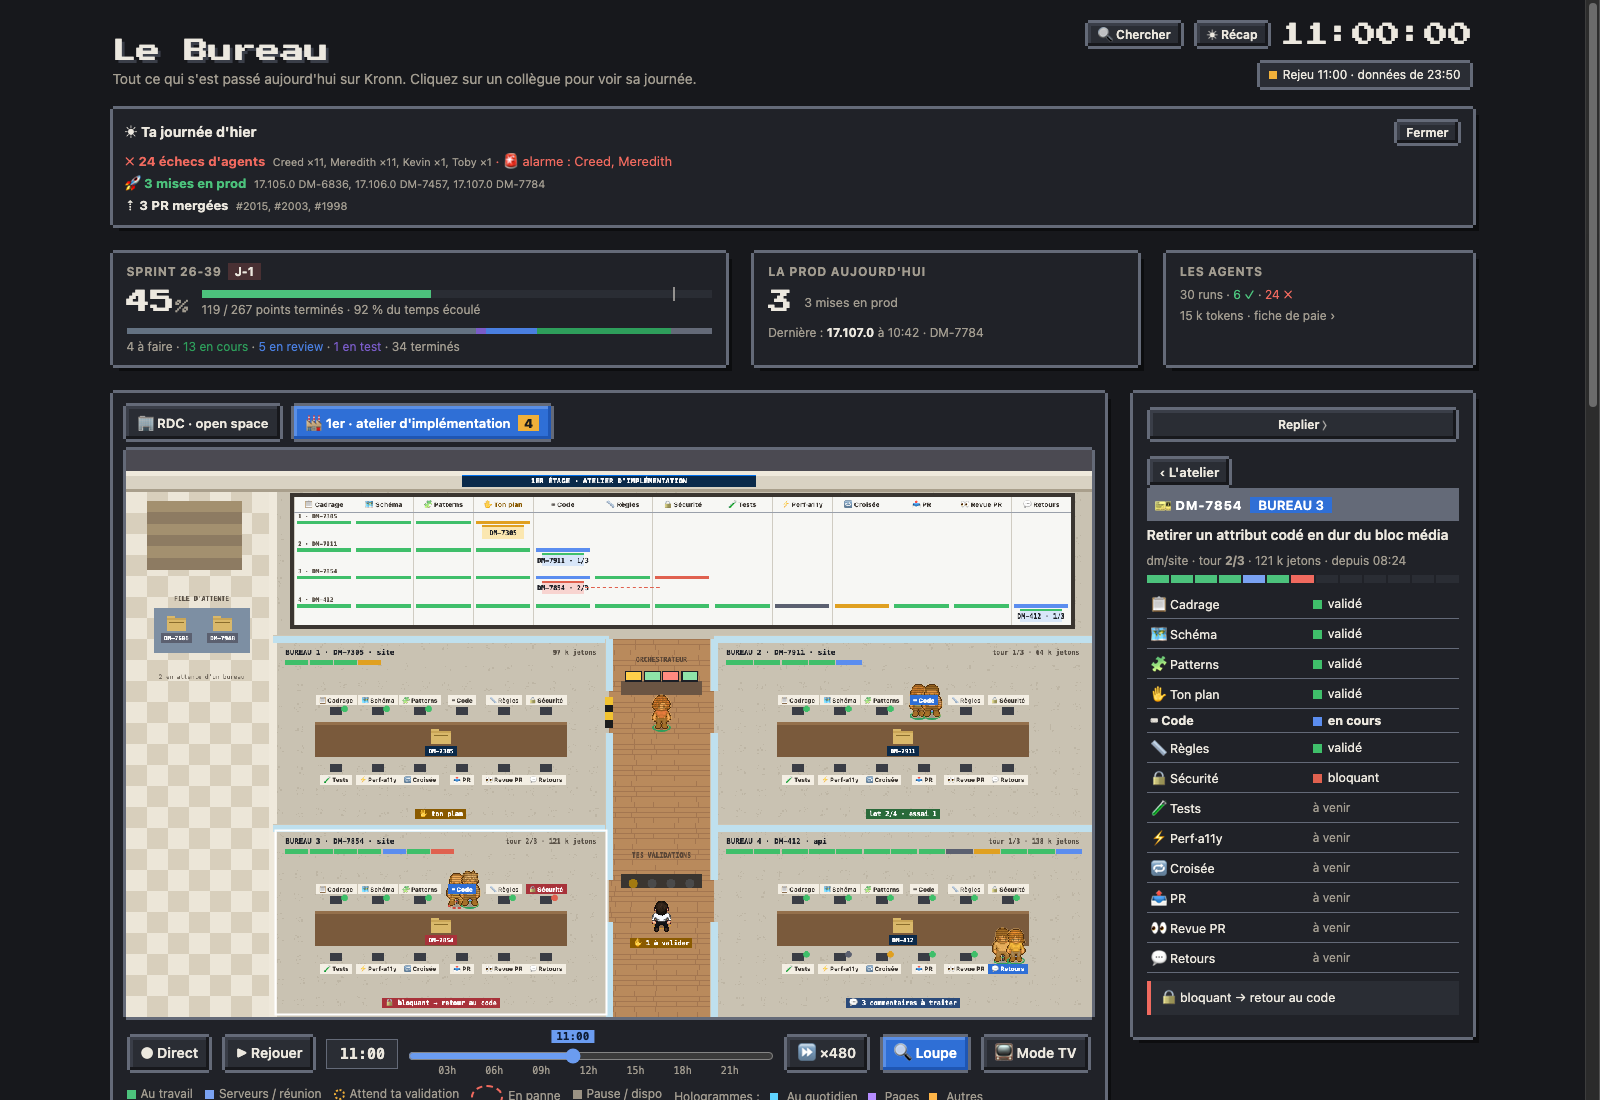
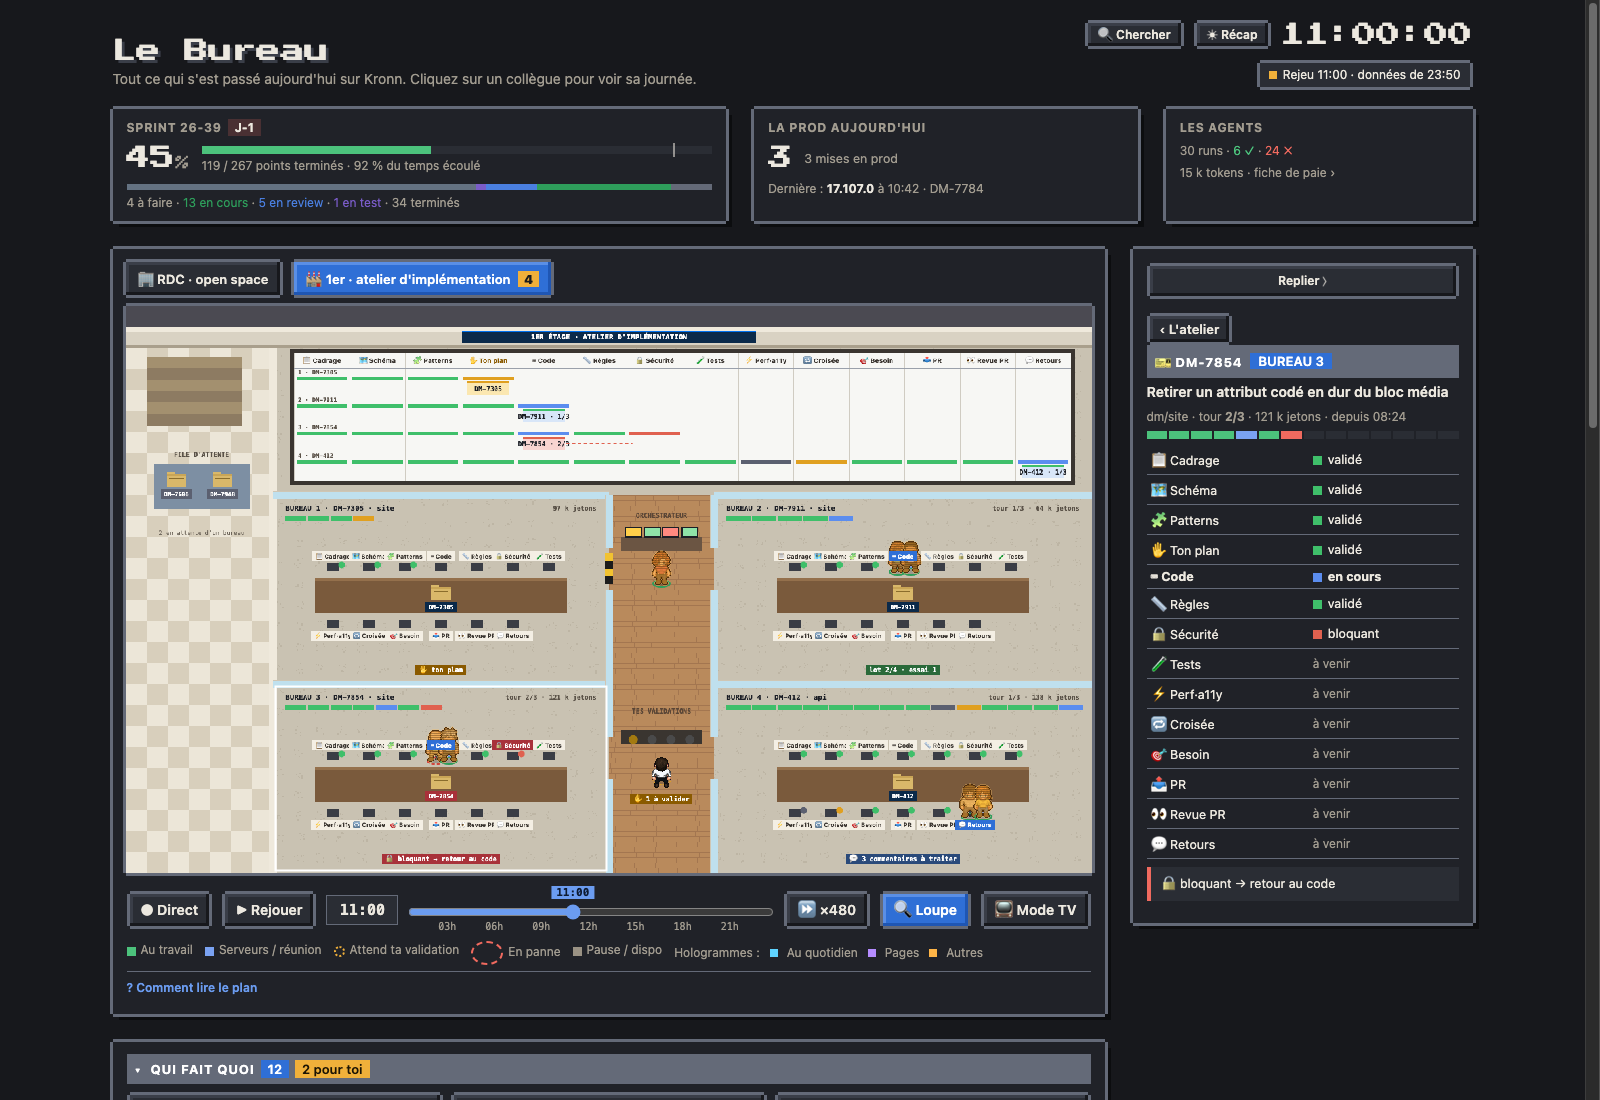
feat(atelier): le poste 🎯 Besoin au mur et sur les bureaux ; doc de la gate du cadrage et de la PR

diff --git a/page/src/68-atelier.js b/page/src/68-atelier.js
@@ -7,7 +7,7 @@
 const AT_POSTES=[
   {k:'cadrage',i:'📋',n:'Cadrage'},{k:'schema',i:'🗺',n:'Schéma'},{k:'patterns',i:'🧩',n:'Patterns'},{k:'gate',i:'✋',n:'Ton plan',gate:true},
   {k:'code',i:'⌨',n:'Code'},{k:'regles',i:'📏',n:'Règles'},{k:'securite',i:'🔒',n:'Sécurité'},{k:'tests',i:'🧪',n:'Tests'},
-  {k:'perf',i:'⚡',n:'Perf·a11y'},{k:'revue',i:'🔁',n:'Croisée'},{k:'pr',i:'📤',n:'PR'},{k:'revue_pr',i:'👀',n:'Revue PR'},{k:'retours',i:'💬',n:'Retours'}];
+  {k:'perf',i:'⚡',n:'Perf·a11y'},{k:'revue',i:'🔁',n:'Croisée'},{k:'besoin',i:'🎯',n:'Besoin'},{k:'pr',i:'📤',n:'PR'},{k:'revue_pr',i:'👀',n:'Revue PR'},{k:'retours',i:'💬',n:'Retours'}];
 const AT_ST={ok:['#3fbf6a','validé'],run:['#5b8def','en cours'],bloq:['#e0614f','bloquant'],avis:['#e0a020','avis'],wait:['#e0a020','t\'attend'],
   skip:['#5b6070','sauté'],err:['#e0614f','en panne']};
 const AT_TS=32, AT_W=46*AT_TS, AT_H=27*AT_TS, AT_ROOMS=[[7,9,23,18],[28,9,46,18],[7,18,23,27],[28,18,46,27]];
@@ -33,7 +33,7 @@ function atelierDemo(){
     {run:'demo-a3',ticket:'DM-7854',title:'Retirer un attribut codé en dur du bloc média',repo:'dm/site',poste:'code',back:true,
      states:{...ok(6),securite:'bloq',code:'run'},tour:'2/3',tok:121e3,since:at(8.4),note:'🔒 bloquant → retour au code'},
     {run:'demo-a4',ticket:'DM-412',title:'Cache des listes de rubriques',repo:'dm/api',poste:'retours',
-     states:{...ok(8),perf:'skip',revue:'avis',pr:'ok',revue_pr:'ok',retours:'run'},tour:'1/3',tok:138e3,since:at(7.9),note:'💬 3 commentaires à traiter'}],
+     states:{...ok(8),perf:'skip',revue:'avis',besoin:'ok',pr:'ok',revue_pr:'ok',retours:'run'},tour:'1/3',tok:138e3,since:at(7.9),note:'💬 3 commentaires à traiter'}],
     queue:[{run:'demo-q1',ticket:'DM-7606',since:at(10.5)},{run:'demo-q2',ticket:'DM-7948',since:at(10.8)}],
     pannes:[{run:'demo-p1',ticket:'DM-7702',title:'Bandeau d\'alerte sur les pages direct',repo:'dm/api',poste:'securite',since:at(8.1)}]};
 }

diff --git a/docs/architecture/chaine-implementation.md b/docs/architecture/chaine-implementation.md
@@ -13,7 +13,7 @@ impl (lanceur, 0 token)          composants Jira -> dépôts -> projets Kronn ; 
    ticket · prepare · [cadrage] · questions · ✋gate_questions · [schema] · [patterns] · dossier · orchestrateur_plan · ✋gate_plan
    · mode · [code] · [controles] · orchestrateur · aiguillage · ✋gate_escalade
    · [livraison = 📤 PR · [revue_pr] · [retours]] · ✋gate_pr · [publication] (Stop) · commente_plan (Plan seulement, puis Stop)
-   controles = quoi · [regles] · [securite] · [tests] · [perf] · [revue] · bilan
+   controles = quoi · [regles] · [securite] · [tests] · [perf] · [revue] · [besoin] · bilan
 ```
 
 `[x]` = sous-workflow `impl_x`. Chaque poste a de la place pour grandir : 20 étapes par workflow, comptées séparément pour chaque sous-workflow [src: url: https://github.com/DocRoms/Kronn/blob/main/backend/src/api/workflows.rs].
@@ -28,6 +28,10 @@ impl (lanceur, 0 token)          composants Jira -> dépôts -> projets Kronn ; 
 - Un Goto compte ses passages par arête (source, cible) sur tout le run, et une étape en code non nul dont le Goto a épuisé `max_iterations` **échoue** au lieu de continuer : tous les tours (propositions, essais par lot, tests, tours de contrôle) sont comptés par le script, qui rend 0 au dernier ; `max_iterations` n'est qu'un filet.
 - Une référence `{{steps.x.data_json}}` à une sortie d'agent sans enveloppe (`on_invalid: Continue`) est inconnue et Kronn refuse de rendre l'étape : toute référence à une sortie d'étape a un repli `?? …` (posé par le générateur).
 - Le shadow de Kronn ne rejoue pas un workflow à variables : l'instantané chiffré des variables est rangé sous l'id du run normal, le run shadow s'arrête sur « snapshot unavailable ». D'où le mode **essai** : toute la chaîne sans push, sans PR, sans Jira (le script saute ces étapes, `reviewers` sort en 5 pour sauter le commentaire Jira, l'`entree` du Code sort en 5 pour sauter l'étape `affecter`).
+
+## ✋ Ce que j'ai compris : la gate du cadrage
+
+Après le cadrage, la gate `gate_questions` s'ouvre à chaque ticket (`questions` sort en 0, la gate suit). Elle montre la compréhension, l'inclus et l'exclus, les critères d'acceptation, les questions avec leur hypothèse, un dépôt qui semble hors périmètre et, si le critique du cadrage n'est pas d'accord après 3 propositions, ses remarques restées. « Changements » renvoie au cadrage avec ton message (`retours.md` garde tout l'échange), autant de tours que tu veux, avant le schéma et le plan. `impl.gate_cadrage: false` : la gate ne s'ouvre que s'il y a à trancher (question bloquante, désaccord du critique, hors périmètre), sinon `questions` sort en 3 (saut au schéma). Essai d'EW-6550 : le cadrage avait compris « le front envoie des données, le mobile affiche » pour une page rendue en HTML par le front, son critique l'avait vu, et la chaîne a filé jusqu'au code.
 
 ## Un ticket, plusieurs dépôts : un bureau et une PR par dépôt
 
@@ -55,6 +59,12 @@ Dans l'atelier, un run en échec des dernières 24 h reste dans « 🧯 En panne
 ## Rejouer un ticket déjà livré (essai comparé)
 
 La variable `base` de la chaîne (commit ou branche) fait partir la branche d'un état passé, en mode essai, pour comparer le travail de la chaîne à la PR humaine déjà livrée. Le futur ne doit pas fuiter : chaque poste et l'orchestrateur reçoivent la consigne de juger par rapport à ce commit (la base distante contient la livraison), le diff part de ce commit (`depart` dans `etat.json`), le ticket ne montre ni son statut ni les commentaires postérieurs. Reste visible : l'état actuel de GitHub (environnements, rulesets) quand un agent l'interroge.
+
+## Conformité au besoin et description de la PR
+
+Le poste 🎯 Besoin (`impl_besoin`, dans les contrôles, bloquant par défaut) confronte le diff aux exigences du ticket (critères d'acceptation, « Qu'est-ce qu'on va faire », « Comment on teste », retours de l'humain) : `exigences` = une ligne par exigence, `fait`, `partiel`, `non`, `autrement` ou `hors_scope` ; une exigence non faite qui revient au dépôt est bloquante. Les autres contrôles jugent la qualité du code, aucun ne vérifiait le résultat demandé.
+
+La description de la PR suit le modèle du dépôt avec un emoji par section (🎯 De quoi on parle, 🔧 Comment j'ai réglé, 🧪 Comment on teste, ✅ Validation, 🚦 Avant / après le merge), courte, sans texte d'aide laissé. Deux blocs y sont écrits par le script, pas par l'agent : « 📋 Ce que le ticket demandait, et où ça atterrit » (le tableau du poste Besoin, à l'emplacement `<!-- bureau-exigences -->`) et « ⚠ Points ouverts » (bloquants restés et avis des contrôles, sans doublon, `<!-- bureau-points -->`). Essai d'EW-7945 : l'orchestrateur disait « avis à reporter dans la PR », le rédacteur les a omis et annonçait « qat retiré ».
 
 ## Périmètre : implémentation, PR et retours
 
@@ -85,7 +95,7 @@ La chaîne s'arrête à la PR et à sa vie de revue : `impl_livraison` (« 📤 
 
 ## Réglage `impl`
 
-`repos.<owner/dépôt>` : `base` (sinon `main` ; absente du dépôt distant : sa branche par défaut, front_tools est sur `master`), `checks.regles` et `checks.tests` (commandes `sh`, chaîne ou `{cmd, subdir}`, emplacements `{worktree}`, `{main}`, `{php}`, `{ts}`, `{tests_php}`, `{tests_ts}`, `{files}` ; une commande dont les fichiers visés manquent est sautée), `ci_label`, `env_label`, `env_url`, `reviewers`. `components.<composant>` quand un composant ne porte pas le nom de son dépôt. `postes.<rôle>` (`cadrage`, `cadrage.critique`, `code`, `revue`…) : `agent`, `tier`, `model`, `skills` en plus, `actif`, `bloquant`. `skills` et `guidelines` de l'équipe pour le code et les contrôles. `max_tours`, `max_lots`. `clones` (dossier des copies locales, `~/Sites` par défaut) et `auto_projet` (cloner un dépôt absent). `references` : dépôts standard de l'équipe (ex. front_euronews) que chaque bureau peut lire, comme ses dépôts sœurs, par leur copie locale (projet Kronn), jamais modifiés.
+`repos.<owner/dépôt>` : `base` (sinon `main` ; absente du dépôt distant : sa branche par défaut, ex. `master`), `checks.regles` et `checks.tests` (commandes `sh`, chaîne ou `{cmd, subdir}`, emplacements `{worktree}`, `{main}`, `{php}`, `{ts}`, `{tests_php}`, `{tests_ts}`, `{files}` ; une commande dont les fichiers visés manquent est sautée), `ci_label`, `env_label`, `env_url`, `reviewers`. `components.<composant>` quand un composant ne porte pas le nom de son dépôt. `postes.<rôle>` (`cadrage`, `cadrage.critique`, `code`, `revue`…) : `agent`, `tier`, `model`, `skills` en plus, `actif`, `bloquant`. `skills` et `guidelines` de l'équipe pour le code et les contrôles. `max_tours`, `max_lots`. `clones` (dossier des copies locales, `~/Sites` par défaut) et `auto_projet` (cloner un dépôt absent). `references` : dépôts standard de l'équipe (celui qui fixe les conventions) que chaque bureau peut lire, comme ses dépôts sœurs, par leur copie locale (projet Kronn), jamais modifiés.
 
 Vérifier en conteneur jetable depuis la copie de travail : le projet Compose d'une copie de travail n'a pas de conteneur (nom de dossier), un `docker compose exec` y échouerait sans bruit ; `docker run --rm -v {worktree}/…:/app -v {main}/…/vendor:/app/vendor:ro …` marche (dépendances partagées tant que le verrou n'a pas changé).
 

diff --git a/CHANGELOG.md b/CHANGELOG.md
@@ -9,7 +9,7 @@ Format : [Keep a Changelog](https://keepachangelog.com/fr/1.1.0/). Versions : `0
 ### Ajouté
 
 - 1er étage, **l'atelier d'implémentation** (#125) : onglets d'étage au-dessus du plan quand la chaîne est installée ; un bureau par ticket sur la chaîne (quatre en parallèle), un tableau mural postes × tickets (validé, en cours, bloquant, avis, sauté, retour au code), l'orchestrateur et ton pupitre de validations dans le couloir, la file d'attente sur le palier ; dans le panneau, les bureaux, les runs en panne à reprendre et la fiche de chacun (verdict de chaque poste, lien du run, carte de décision de sa gate). Dataset `atelier` publié par le cron `live` (`workflows/atelier_snapshot.py`, 0 token). Guide : [L'atelier d'implémentation](guide/fonctionnalites/23-atelier.md). Après la mise à jour : `python3 tools/install.py` (crée le dataset), puis `publish.py all`.
-- Implémenter un ticket en **chaîne de postes** (#76, #125) : modèle du Bureau multi-projets, un bureau et une PR par dépôt : chaque composant Jira du ticket donne son dépôt et son projet Kronn (lanceur `models.impl`, 0 token), chaque bureau a sa copie du projet et son périmètre, les PR sœurs se citent entre elles, jusqu'à 4 en parallèle. Dix postes, chacun un sous-workflow avec son agent, son modèle et ses skills (réglage `impl.postes`) : 📋 cadrage, 🗺 schéma d'impact, 🧩 patterns (une proposition, un critique, 3 tours au plus), un orchestrateur qui valide et compose le plan en lots et choisit les contrôles, ✋ ta gate sur le plan (« Plan seulement » s'arrête là, plan en commentaire du ticket), ⌨ code lot par lot (vérifs et relecture par lot, 3 essais), 📏 règles, 🔒 sécurité, 🧪 tests, ⚡ perf · a11y (si du front change), 👀 revue croisée, puis l'orchestrateur : livrer, renvoyer au code (3 tours) ou te demander ; 📤 PR brouillon au modèle du dépôt, 👀 revue de la PR par le modèle de revue du Bureau, 💬 retours traités (correction et réponse dans chaque fil), ta relecture, puis relecteurs et lien dans le ticket. Ni CI, ni env de branche, ni déploiement : le RDC s'en charge. Vérifications du dépôt en conteneur jetable depuis la copie de travail (`impl.repos.<dépôt>.checks`). Trois modes : Plan seulement, complet, essai (toute la chaîne sans push, sans PR, sans Jira). Reprise après une panne : relancer le ticket repart du poste où le run en échec s'est arrêté, avec son dossier et sa branche. Après la mise à jour : `python3 tools/install.py` (la propose), puis `publish.py workflows`.
+- Implémenter un ticket en **chaîne de postes** (#76, #125) : modèle du Bureau multi-projets, un bureau et une PR par dépôt : chaque composant Jira du ticket donne son dépôt et son projet Kronn (lanceur `models.impl`, 0 token), chaque bureau a sa copie du projet et son périmètre, les PR sœurs se citent entre elles, jusqu'à 4 en parallèle. Dix postes, chacun un sous-workflow avec son agent, son modèle et ses skills (réglage `impl.postes`) : 📋 cadrage (et ta gate « ce que j'ai compris », à chaque ticket, autant d'allers-retours que tu veux), 🗺 schéma d'impact, 🧩 patterns (une proposition, un critique, 3 tours au plus), un orchestrateur qui valide et compose le plan en lots et choisit les contrôles, ✋ ta gate sur le plan (« Plan seulement » s'arrête là, plan en commentaire du ticket), ⌨ code lot par lot (vérifs et relecture par lot, 3 essais), 📏 règles, 🔒 sécurité, 🧪 tests, ⚡ perf · a11y (si du front change), 👀 revue croisée, 🎯 conformité au besoin (exigence par exigence, tableau écrit dans la PR), puis l'orchestrateur : livrer, renvoyer au code (3 tours) ou te demander ; 📤 PR brouillon au modèle du dépôt, 👀 revue de la PR par le modèle de revue du Bureau, 💬 retours traités (correction et réponse dans chaque fil), ta relecture, puis relecteurs et lien dans le ticket. Ni CI, ni env de branche, ni déploiement : le RDC s'en charge. Vérifications du dépôt en conteneur jetable depuis la copie de travail (`impl.repos.<dépôt>.checks`). Trois modes : Plan seulement, complet, essai (toute la chaîne sans push, sans PR, sans Jira). Reprise après une panne : relancer le ticket repart du poste où le run en échec s'est arrêté, avec son dossier et sa branche. Après la mise à jour : `python3 tools/install.py` (la propose), puis `publish.py workflows`.
 - Temps gagné par l'IA : les **points avec l'IA** (l'effort qui reste à un humain quand l'IA aide, à côté des Story Points) remplis dans le champ Jira réglé (`jira.ai_feedback.points.field`) : Story Points du ticket × heures avec IA / heures sans IA, arrondi en Fibonacci ; montrés à la validation, écrits avec le label, une valeur déjà posée gardée sauf « Forcer ». Sans réglage ou sans Story Points, rien n'est écrit.
 - « ⏱ Temps gagné IA » sur la fiche d'un ticket terminé (volet du Kanban) : lance le modèle du Bureau `models.ai_time` ; grisé quand le label de suivi est déjà posé (le cron équipe lit les labels des tickets et publie seulement `ai_fb`). Guide : [Temps gagné par l'IA](guide/fonctionnalites/22-temps-gagne-ia.md). Après la mise à jour : `publish.py all` (workflows d'abord, puis la page).
 - Modèle du Bureau « estimer le temps gagné par l'IA » (`models.ai_time`, #79), à la place du Quick Prompt d'installation : les PR mergées du ticket sont trouvées sans IA (panneau Development de Jira par l'API dev-status, clé d'instance lue dans `byInstanceType`, sinon recherche GitHub de la clé dans les dépôts suivis), avec l'outil et le modèle qui ont écrit le code (lignes `Co-Authored-By` des commits, « Generated with Claude Code ») et la relecture par un autre modèle (Copilot, ou le modèle de revue du Bureau) ; une seule étape IA (`tier: default`, sans outil) estime le temps sans et avec IA d'après les diffs ; tu relis le commentaire tel qu'il sera posté, puis il part sur le ticket (wiki markup, API REST v2) avec le label de suivi. Garde-fous : label déjà posé (sauf « Forcer »), aucune PR mergée, PR encore ouverte (relancer avec « PR »). Gabarit du commentaire (label, langue, titre, champs, outil et modèle par défaut) : réglage `jira.ai_feedback` de la config ou du pack, défauts neutres en français. Après la mise à jour : `python3 tools/install.py` (le propose), puis `publish.py all`.

diff --git a/guide/fonctionnalites/23-atelier.md b/guide/fonctionnalites/23-atelier.md
@@ -10,14 +10,14 @@ Les onglets au-dessus du plan (« 🏢 RDC · open space », « 🏭 1er · atel
 
 ## Ce qu'on y voit
 
-- **Le tableau mural** : une colonne par poste (cadrage, schéma, patterns, ton plan, code, règles, sécurité, tests, perf · a11y, revue croisée, PR, revue de la PR, retours), une ligne par bureau. Les barres disent ce qui est validé, en cours, bloquant, en avis ou sauté ; la carte du ticket est sous son poste courant, avec son tour de contrôle ; un retour au code est tracé en pointillé rouge.
+- **Le tableau mural** : une colonne par poste (cadrage, schéma, patterns, ton plan, code, règles, sécurité, tests, perf · a11y, revue croisée, conformité au besoin, PR, revue de la PR, retours), une ligne par bureau. Les barres disent ce qui est validé, en cours, bloquant, en avis ou sauté ; la carte du ticket est sous son poste courant, avec son tour de contrôle ; un retour au code est tracé en pointillé rouge.
 - **Les quatre bureaux** : la plaque (ticket, dépôt, tour, jetons), la barre d'avancement, la table avec un carton par poste et sa lampe d'état. Les deux agents du poste en cours s'y assoient ; une note en bas de la pièce résume la situation (plan à valider, lot en cours, retour au code, commentaires à traiter). La porte d'un bureau qui attend ta décision est barrée de ruban jaune et noir.
 - **Le couloir** : l'orchestrateur et ses quatre écrans, puis ton pupitre de validations, une lampe par bureau qui clignote quand une gate t'attend.
 - **La file d'attente**, sur le palier : les tickets qui attendent un bureau libre.
 
 ## Le panneau
 
-Sur le 1er étage, le panneau liste les bureaux (ticket, poste en cours, barre des postes, tour, jetons), la file et les pannes. Un clic sur un bureau, dans le panneau ou sur le plan, ouvre sa fiche : le verdict de chaque poste, la note, le lien vers le run dans Kronn et, quand une gate t'attend (questions du cadrage, ton plan, escalade, relecture de la PR), la carte de décision habituelle.
+Sur le 1er étage, le panneau liste les bureaux (ticket, poste en cours, barre des postes, tour, jetons), la file et les pannes. Un clic sur un bureau, dans le panneau ou sur le plan, ouvre sa fiche : le verdict de chaque poste, la note, le lien vers le run dans Kronn et, quand une gate t'attend (« ce que j'ai compris » après le cadrage, ton plan, escalade, relecture de la PR), la carte de décision habituelle. La gate du cadrage s'ouvre à chaque ticket : tu corriges la compréhension de la chaîne autant de fois que tu veux avant qu'elle planifie.
 
 ![Fiche d'un bureau : le verdict de chaque poste](../img/atelier-fiche.png)
 
